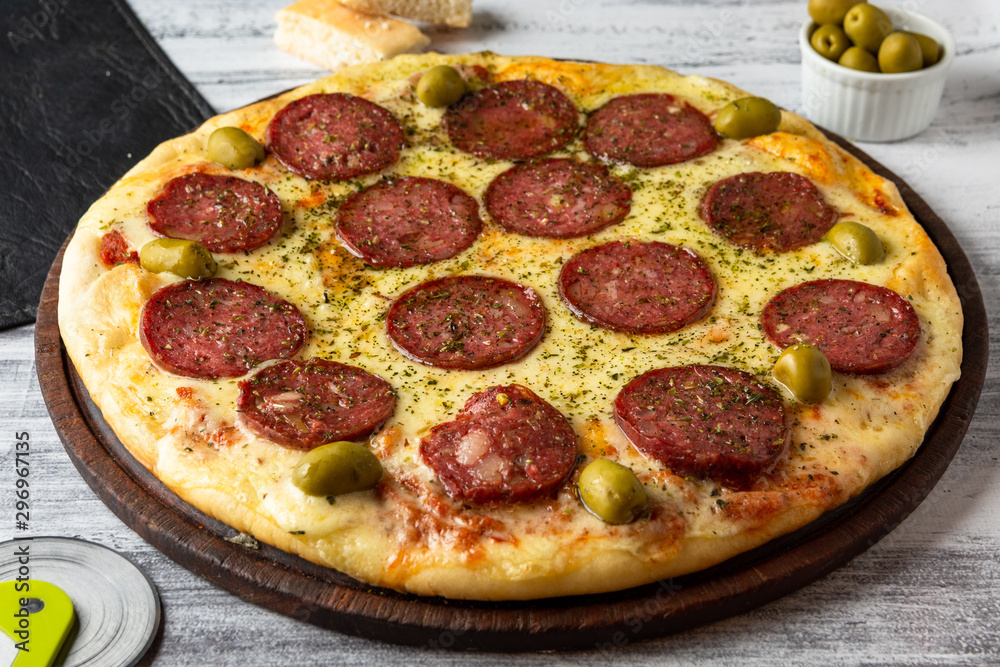
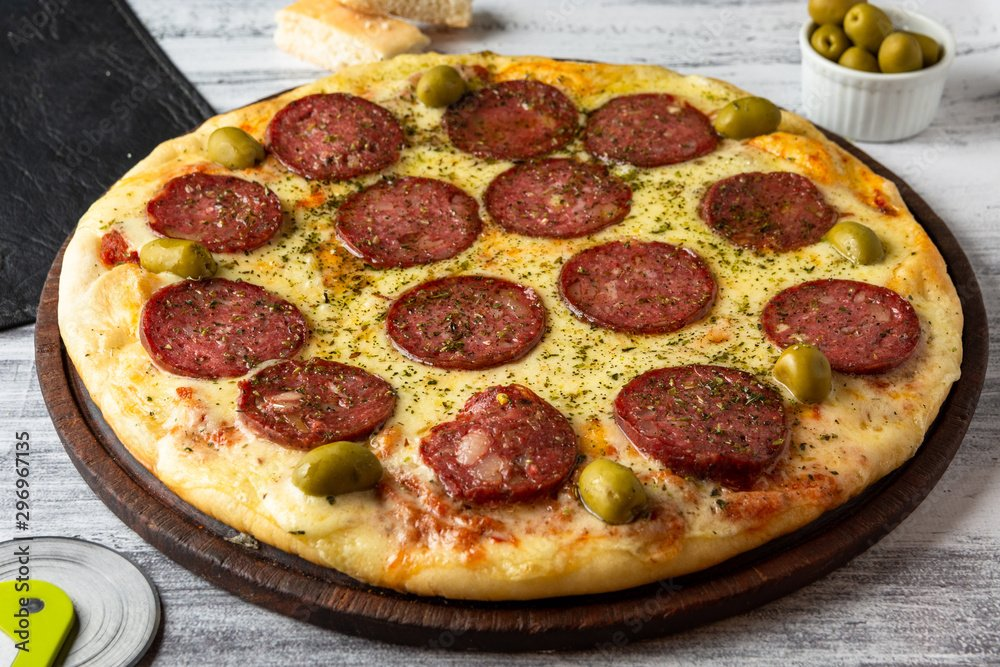
ajuste de títulos y optimización de imágenes

diff --git a/pages/productos.html b/pages/productos.html
@@ -4,7 +4,7 @@
     <meta charset="UTF-8">
     <meta http-equiv="X-UA-Compatible" content="IE=edge">
     <meta name="viewport" content="width=device-width, initial-scale=1.0">
-    <title>PIZZERIA LOS VEGA - PRODUCTOS</title>
+    <title>Los mejores productos de nuestra Pizzería Los Vega</title>
            <!--Links de Bootstrap-->
            <link href="https://cdn.jsdelivr.net/npm/bootstrap@5.1.3/dist/css/bootstrap.min.css" rel="stylesheet" integrity="sha384-1BmE4kWBq78iYhFldvKuhfTAU6auU8tT94WrHftjDbrCEXSU1oBoqyl2QvZ6jIW3" crossorigin="anonymous">
            <script src="https://cdn.jsdelivr.net/npm/bootstrap@5.1.3/dist/js/bootstrap.bundle.min.js" integrity="sha384-ka7Sk0Gln4gmtz2MlQnikT1wXgYsOg+OMhuP+IlRH9sENBO0LRn5q+8nbTov4+1p" crossorigin="anonymous"></script>         

diff --git a/pages/historia.html b/pages/historia.html
@@ -4,7 +4,7 @@
     <meta charset="UTF-8">
     <meta http-equiv="X-UA-Compatible" content="IE=edge">
     <meta name="viewport" content="width=device-width, initial-scale=1.0">
-    <title>PIZZERIA LOS VEGA - HISTORIA</title>
+    <title>Así comenzó la historia de nuestra Pizzería Los Vega</title>
     <!--Links de Bootstrap-->
     <link href="https://cdn.jsdelivr.net/npm/bootstrap@5.1.3/dist/css/bootstrap.min.css" rel="stylesheet" integrity="sha384-1BmE4kWBq78iYhFldvKuhfTAU6auU8tT94WrHftjDbrCEXSU1oBoqyl2QvZ6jIW3" crossorigin="anonymous">
     <script src="https://cdn.jsdelivr.net/npm/bootstrap@5.1.3/dist/js/bootstrap.bundle.min.js" integrity="sha384-ka7Sk0Gln4gmtz2MlQnikT1wXgYsOg+OMhuP+IlRH9sENBO0LRn5q+8nbTov4+1p" crossorigin="anonymous"></script>

diff --git a/pages/contacto.html b/pages/contacto.html
@@ -4,7 +4,7 @@
     <meta charset="UTF-8">
     <meta http-equiv="X-UA-Compatible" content="IE=edge">
     <meta name="viewport" content="width=device-width, initial-scale=1.0">
-    <title>PIZZERIA LOS VEGA - CONTACTO</title>
+    <title>Póngase en contacto con nuestra Pizzería Los Vega</title>
     <!--Links de Bootstrap-->
     <link href="https://cdn.jsdelivr.net/npm/bootstrap@5.1.3/dist/css/bootstrap.min.css" rel="stylesheet" integrity="sha384-1BmE4kWBq78iYhFldvKuhfTAU6auU8tT94WrHftjDbrCEXSU1oBoqyl2QvZ6jIW3" crossorigin="anonymous">
     <script src="https://cdn.jsdelivr.net/npm/bootstrap@5.1.3/dist/js/bootstrap.bundle.min.js" integrity="sha384-ka7Sk0Gln4gmtz2MlQnikT1wXgYsOg+OMhuP+IlRH9sENBO0LRn5q+8nbTov4+1p" crossorigin="anonymous"></script>

diff --git a/pages/redes.html b/pages/redes.html
@@ -4,7 +4,7 @@
     <meta charset="UTF-8">
     <meta http-equiv="X-UA-Compatible" content="IE=edge">
     <meta name="viewport" content="width=device-width, initial-scale=1.0">
-    <title>PIZZERIA LOS VEGA - REDES</title>
+    <title>Encuentre a Pizzería Los Vega en las redes</title>
     <!--Links de Bootstrap-->
     <link href="https://cdn.jsdelivr.net/npm/bootstrap@5.1.3/dist/css/bootstrap.min.css" rel="stylesheet" integrity="sha384-1BmE4kWBq78iYhFldvKuhfTAU6auU8tT94WrHftjDbrCEXSU1oBoqyl2QvZ6jIW3" crossorigin="anonymous">
     <script src="https://cdn.jsdelivr.net/npm/bootstrap@5.1.3/dist/js/bootstrap.bundle.min.js" integrity="sha384-ka7Sk0Gln4gmtz2MlQnikT1wXgYsOg+OMhuP+IlRH9sENBO0LRn5q+8nbTov4+1p" crossorigin="anonymous"></script>

diff --git a/index.html b/index.html
@@ -4,7 +4,7 @@
     <meta charset="UTF-8">
     <meta http-equiv="X-UA-Compatible" content="IE=edge">
     <meta name="viewport" content="width=device-width, initial-scale=1.0">
-    <title>Pizzeria Los Vega</title>
+    <title>Pizzería Los Vega</title>
     <!--Links de Bootstrap-->
     <link href="https://cdn.jsdelivr.net/npm/bootstrap@5.1.3/dist/css/bootstrap.min.css" rel="stylesheet" integrity="sha384-1BmE4kWBq78iYhFldvKuhfTAU6auU8tT94WrHftjDbrCEXSU1oBoqyl2QvZ6jIW3" crossorigin="anonymous">
     <script src="https://cdn.jsdelivr.net/npm/bootstrap@5.1.3/dist/js/bootstrap.bundle.min.js" integrity="sha384-ka7Sk0Gln4gmtz2MlQnikT1wXgYsOg+OMhuP+IlRH9sENBO0LRn5q+8nbTov4+1p" crossorigin="anonymous"></script>     

diff --git a/componentes/_main_productos.scss b/componentes/_main_productos.scss
@@ -25,6 +25,7 @@
         }
      }
 }
+/*muestro uso del extend*/
 .pizzas{
     @extend .productoTemplate;
     img{
